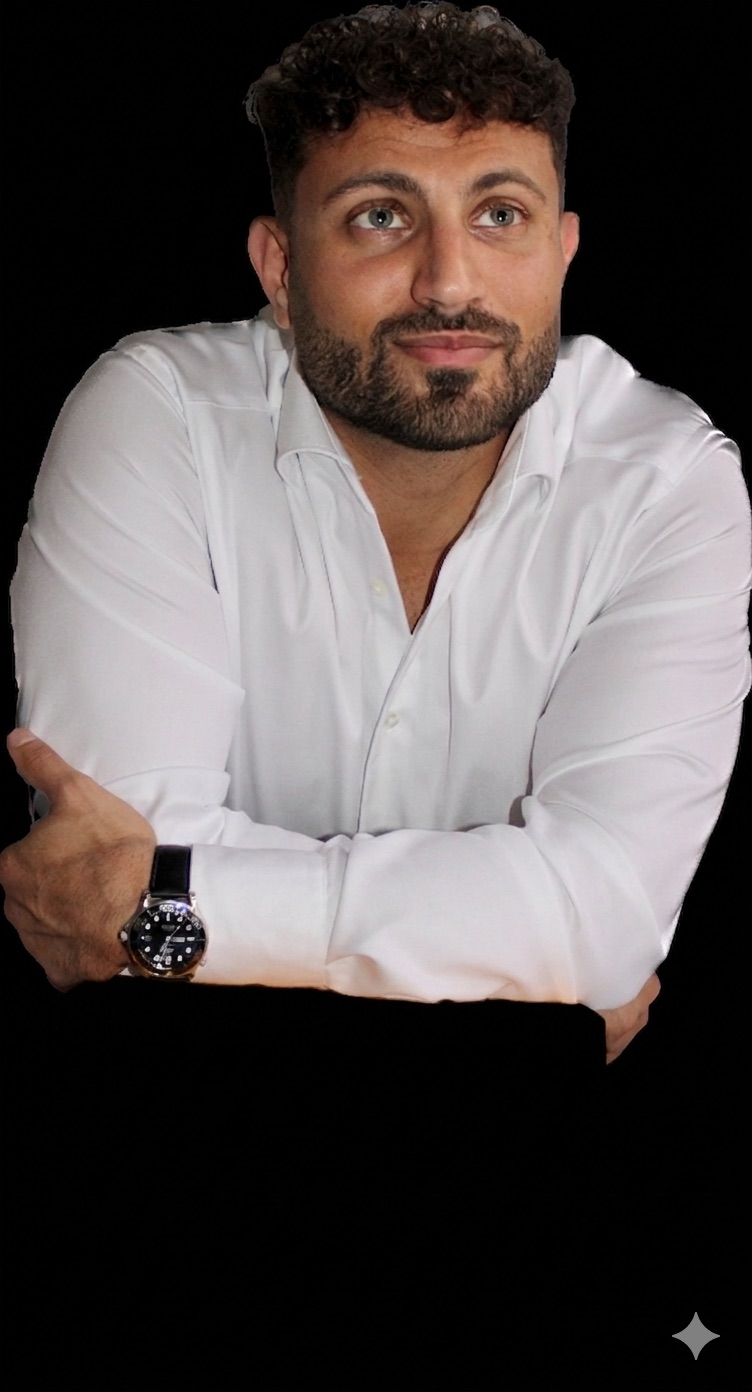
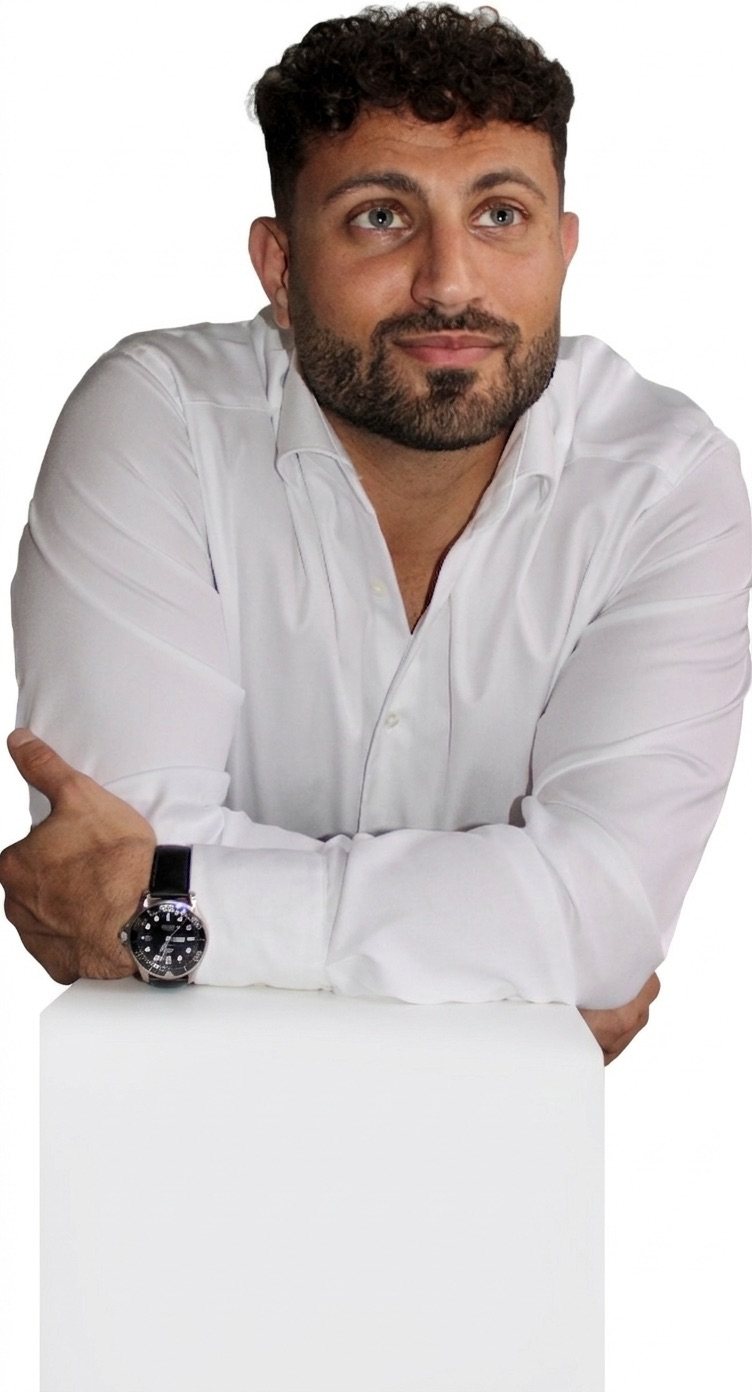
om: nyt billede med lys bg og hover bevægelse

diff --git a/src/components/About.tsx b/src/components/About.tsx
@@ -12,16 +12,13 @@ export default function About() {
         Om
       </div>
       <div className="grid grid-cols-1 md:grid-cols-[1fr_1.4fr] gap-10 md:gap-16">
-        <div className="flex flex-col max-h-[500px]">
-          <div className="flex-1 bg-ink flex items-end justify-center overflow-hidden">
-            <img
-              src="/ali.jpg"
-              alt="Ali"
-              className="w-full object-cover object-top"
-              style={{ maxHeight: "420px", objectPosition: "center top" }}
-            />
-          </div>
-          <div className="h-[80px] bg-fog" />
+        <div className="bg-fog max-h-[500px] overflow-hidden group relative">
+          <img
+            src="/ali.jpg"
+            alt="Ali"
+            className="w-full h-full object-cover object-top transition-transform duration-[800ms] ease-out group-hover:scale-[1.03] group-hover:translate-y-[-8px]"
+          />
+          <div className="absolute bottom-0 left-0 right-0 h-[60px] bg-gradient-to-t from-fog to-transparent" />
         </div>
 
         <div>
